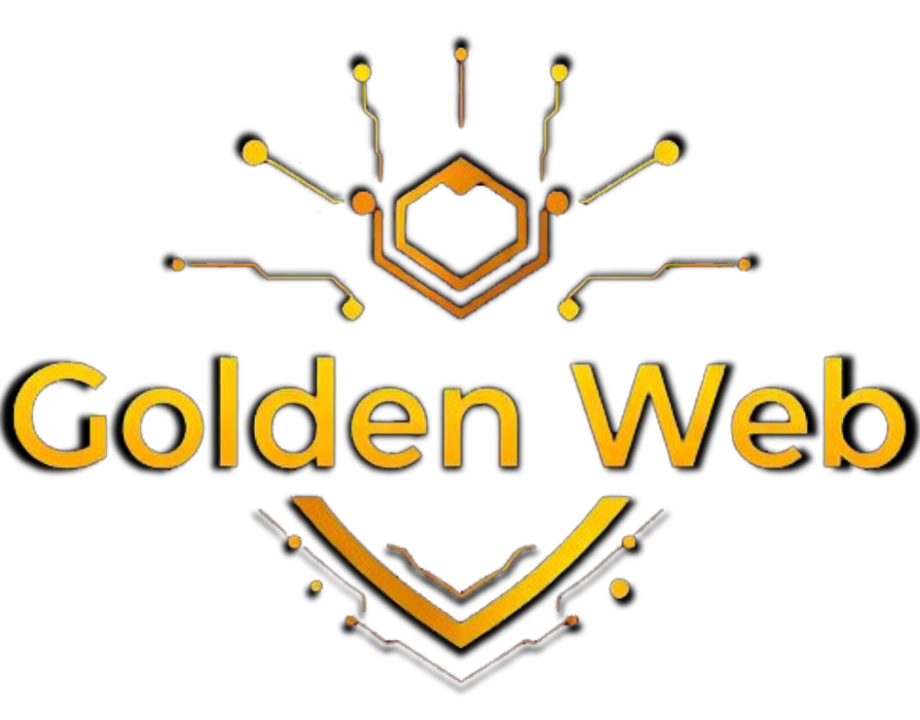
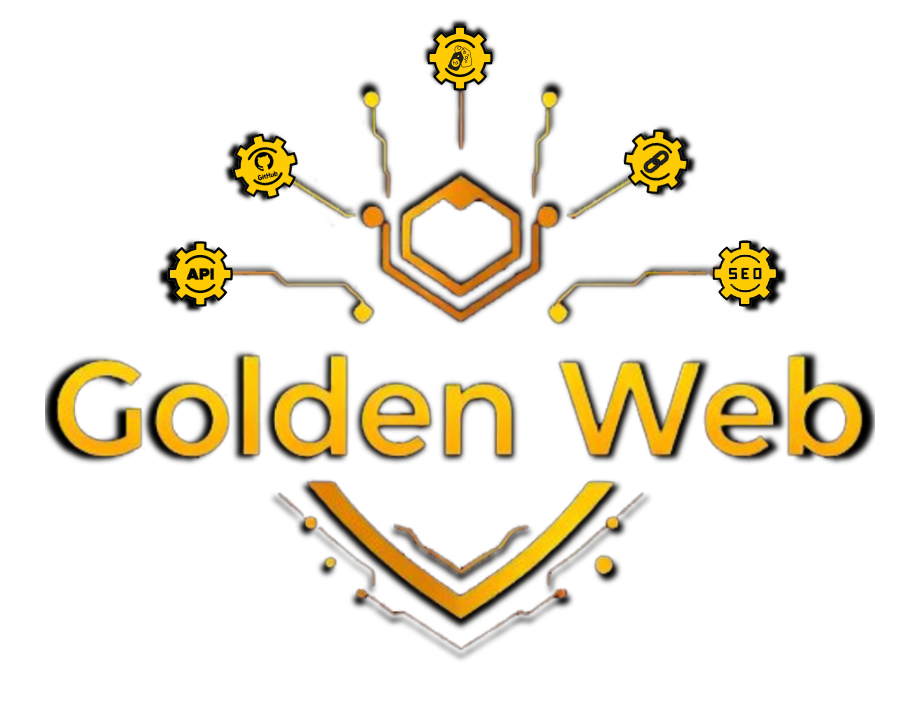
last add in 14-7-2025
chinge icon
add some movment
add some data

Changed region(s): [[0.0, 0.4889, 1.0, 0.9778], [0.1522, 0.0306, 0.8522, 0.4583]]

diff --git a/app/components/SlideHome.jsx b/app/components/SlideHome.jsx
@@ -1,76 +1,5 @@
-// "use client";
-// import React from 'react'
-// import Image from 'next/image';
-// import Homeslider from './imge/images/home slider.png'
-// import slider1 from './imge/images/Slider01.png'
-// import slider2 from './imge/images/Slider02.png'
-// import slider3 from './imge/images/Slider03.png'
-// import "slick-carousel/slick/slick.css";
-// import "slick-carousel/slick/slick-theme.css";
-// import Slider from "react-slick";
-
-// const SlideHome = () => {
-
-
-//     var settings = {
-//         dots: true,
-//         infinite: true,
-//         speed: 2000,
-//         slidesToShow: 1,
-//         slidesToScroll: 1,
-//         autoplay: true,
-//         autoplaySpeed: 4000, 
-//       };
-
-
-//   return (
-//     <div className='SlideHomeZone'>
-  
-//   <Slider {...settings}>
-
-//     <div  className='SlideHome' id='Home'>
-//       <div className="SlideHomeData"><div className='SlideHomeDataA'><h1>Welcome to Golden Web</h1><p>We transform your ideas into sophisticated digital interfaces that reflect your project's identity. Attract customers with exceptional designs and unparalleled responsiveness.</p></div><Image className='SlideHomeimg' src={Homeslider} alt="sliderHome" /></div>
-//     </div>
-//     <div  className='SlideHome' id='Home'>
-//       <div className="SlideHomeData"><div className='SlideHomeDataA'><h1>Front-end solutions tailored to you</h1><p>We offer programming and design services for landing pages and complete websites in a professional manner that suits your audience and intelligently achieves your marketing goals.</p></div><Image className='SlideHomeimg' src={slider1} alt="sliderHome" /></div>
-//     </div>
-//     <div  className='SlideHome' id='Home'>
-//       <div className="SlideHomeData"><div className='SlideHomeDataA'><h1>Your website is your strongest point in the competition</h1><p>Because first impressions matter the most, we care about every pixel and design to reflect the spirit of your project and provide your visitors with an amazing user experience.</p></div><Image className='SlideHomeimg' src={slider2} alt="sliderHome" /></div>
-//     </div>
-//     <div  className='SlideHome' id='Home'>
-//       <div className="SlideHomeData"><div className='SlideHomeDataA'><h1>From clean code to tangible results</h1><p>We code with mastery, design with creativity, and build websites that foster trust and drive conversions. Because you deserve a digital presence that matches your vision.</p></div><Image className='SlideHomeimg' src={slider3} alt="sliderHome" /></div>
-//     </div>
-
-
-//   </Slider>
-//         <div className="slider-buttons" style={{ textAlign: 'center', marginBottom: '1rem' ,marginTop: '50px'}}>
-//         <button onClick={() => sliderRef.current.slickPrev()} className="prev-button">السابق</button>
-//         <button onClick={() => sliderRef.current.slickNext()} className="next-button">التالي</button>
-//       </div>
-// </div>
-//   )
-// }
-
-// export default SlideHome
-
-
-
-
-
-
-
-
-
-
-
-
-
-
-
-
-
-
 "use client";
+
 import React, { useRef } from 'react';
 import Image from 'next/image';
 import Homeslider from './imge/images/home slider.png';
@@ -89,7 +18,7 @@ const SlideHome = () => {
   const settings = {
     dots: true,
     infinite: true,
-    speed: 2000,
+    speed: 300,
     slidesToShow: 1,
     slidesToScroll: 1,
     autoplay: true,
@@ -97,6 +26,10 @@ const SlideHome = () => {
     arrows: false // نوقف الأسهم الافتراضية
   };
 
+
+
+
+  
   return (
     <div className='SlideHomeZone'>
  
@@ -107,16 +40,16 @@ const SlideHome = () => {
 
       <Slider ref={sliderRef} {...settings}>
     <div  className='SlideHome' id='Home'>
-      <div className="SlideHomeData"><div className='SlideHomeDataA'><h1>Welcome to Golden Web</h1><p>We transform your ideas into sophisticated digital interfaces that reflect your project's identity. Attract customers with exceptional designs and unparalleled responsiveness.</p></div><Image className='SlideHomeimg' src={Homeslider} alt="sliderHome" /></div>
+      <div className="SlideHomeData"><div className='SlideHomeDataA' data-aos="fade-right"><h1>Welcome to Golden Web</h1><p>We transform your ideas into sophisticated digital interfaces that reflect your project's identity. Attract customers with exceptional designs and unparalleled responsiveness.</p></div><Image className='SlideHomeimg' src={Homeslider} alt="sliderHome" data-aos="fade-left"/></div>
     </div>
     <div  className='SlideHome' id='Home'>
-      <div className="SlideHomeData"><div className='SlideHomeDataA'><h1>Front-end solutions tailored to you</h1><p>We offer programming and design services for landing pages and complete websites in a professional manner that suits your audience and intelligently achieves your marketing goals.</p></div><Image className='SlideHomeimg' src={slider1} alt="sliderHome" /></div>
+      <div className="SlideHomeData"><div className='SlideHomeDataA' data-aos="fade-right"><h1>Front-end solutions tailored to you</h1><p>We offer programming and design services for landing pages and complete websites in a professional manner that suits your audience and intelligently achieves your marketing goals.</p></div><Image className='SlideHomeimg' src={slider1} alt="sliderHome" data-aos="fade-left" /></div>
     </div>
     <div  className='SlideHome' id='Home'>
-      <div className="SlideHomeData"><div className='SlideHomeDataA'><h1>Your website is your strongest point in the competition</h1><p>Because first impressions matter the most, we care about every pixel and design to reflect the spirit of your project and provide your visitors with an amazing user experience.</p></div><Image className='SlideHomeimg' src={slider2} alt="sliderHome" /></div>
+      <div className="SlideHomeData"><div className='SlideHomeDataA' data-aos="fade-right"><h1>Your website is your strongest point in the competition</h1><p>Because first impressions matter the most, we care about every pixel and design to reflect the spirit of your project and provide your visitors with an amazing user experience.</p></div><Image className='SlideHomeimg' src={slider2} alt="sliderHome" data-aos="fade-left" /></div>
     </div>
     <div  className='SlideHome' id='Home'>
-      <div className="SlideHomeData"><div className='SlideHomeDataA'><h1>From clean code to tangible results</h1><p>We code with mastery, design with creativity, and build websites that foster trust and drive conversions. Because you deserve a digital presence that matches your vision.</p></div><Image className='SlideHomeimg' src={slider3} alt="sliderHome" /></div>
+      <div className="SlideHomeData"><div className='SlideHomeDataA' data-aos="fade-right"><h1>From clean code to tangible results</h1><p>We code with mastery, design with creativity, and build websites that foster trust and drive conversions. Because you deserve a digital presence that matches your vision.</p></div><Image className='SlideHomeimg' src={slider3} alt="sliderHome" data-aos="fade-left" /></div>
     </div>
       </Slider>
 

diff --git a/app/components/Nav.jsx b/app/components/Nav.jsx
@@ -23,7 +23,7 @@ const Nav = () => {
 
   return (
 <>
-<div className='nav' data-aos="fade-down">
+<div className='nav'>
         <a href="#"><Image src={LOGO} alt="LOGO"  style={{width:'90px',height:'66px'}}/></a>
         <ul className='nav-list'>
             <Link to='Home' smooth={true} duration={1000} className='nav-Link'>Home</Link>
